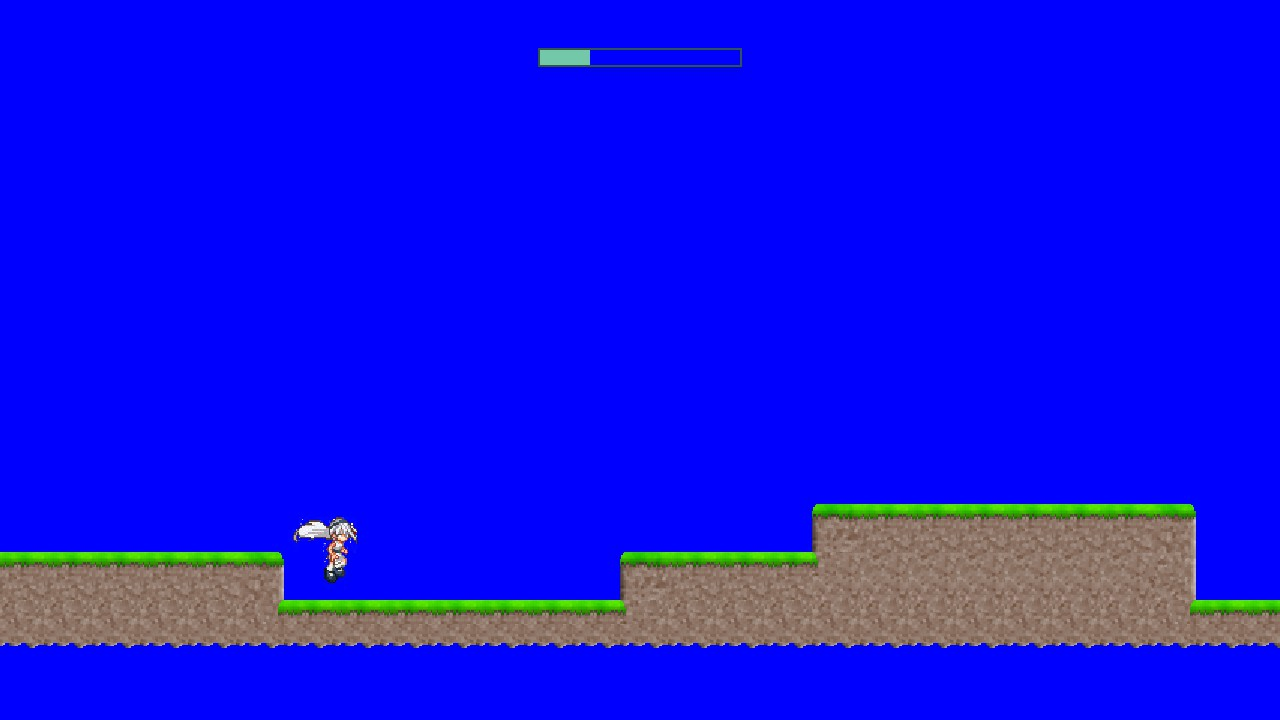
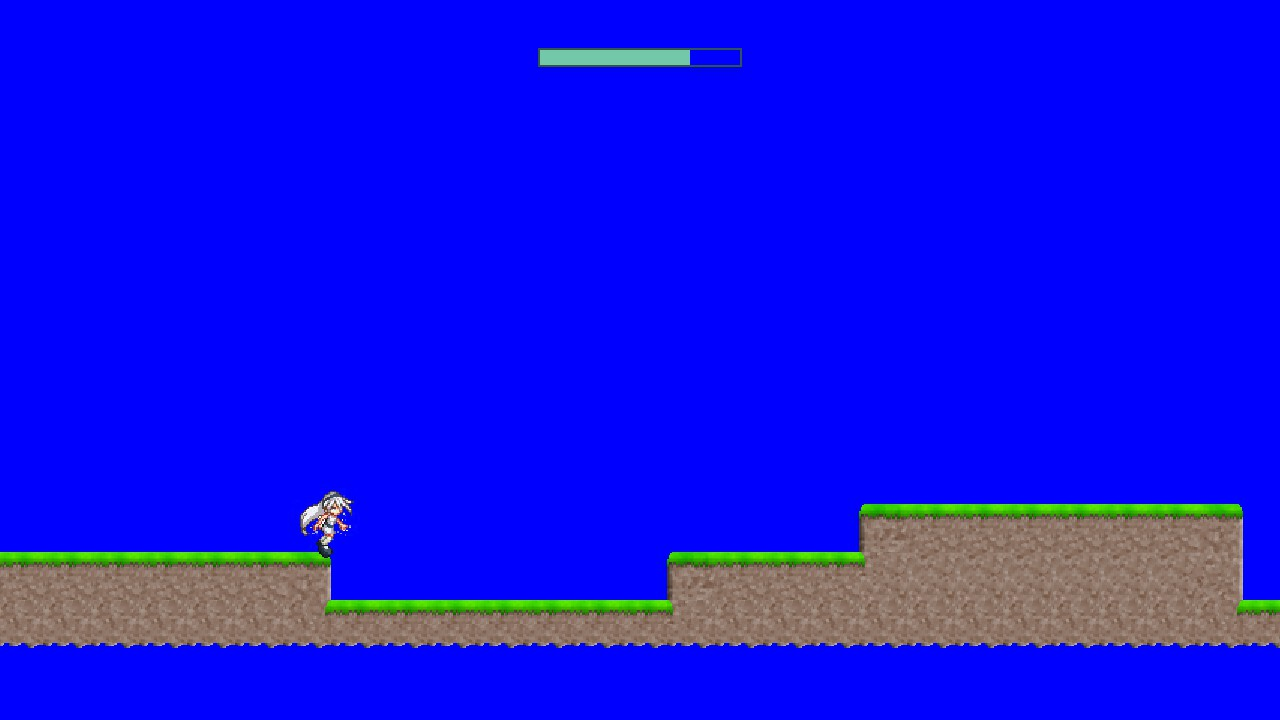
Overworld and Level share the same Elodie

diff --git a/src/Level/Level.cpp b/src/Level/Level.cpp
@@ -1,9 +1,9 @@
 #include "Level.h"
 
-Level::Level(std::string filename, LevelEnv env) {
+Level::Level(std::string filename, LevelEnv env, Elodie* elodie) {
     this->environement = env;
     this->manager = new TextureManager();
-    loadLevel(filename);
+    loadLevel(filename, elodie);
 }
 
 Level::~Level() {
@@ -14,7 +14,9 @@ Level::~Level() {
     }
 
     for(EntityMap::iterator it = entities.begin(); it != entities.end(); ++it) {
-        delete it->second;
+        if(it->first.compare("elodie")) {
+            delete it->second;
+        }
     }
 
     delete this->manager;
@@ -25,10 +27,10 @@ void Level::setEnvironement(LevelEnv env) {
 }
 
 // Load a level from the file system
-void Level::loadLevel(std::string filename) {
+void Level::loadLevel(std::string filename, Elodie* elodie) {
     std::string levelSource = FileHandler::getContent(filename);
 
-    Mapper::parse(levelSource, tiles, entities);
+    Mapper::parse(levelSource, tiles, entities, elodie);
     Mapper::beautify(tiles);
 
     applyEnv(tiles);

diff --git a/src/Map/Mapper.cpp b/src/Map/Mapper.cpp
@@ -6,7 +6,7 @@ Mapper::Mapper() {
 }
 
 // The parser takes the ASCII level and modify the the TileMap and the EntityVector
-void Mapper::parse(std::string asciiLevel, TileMap& tiles, EntityMap& entities) {
+void Mapper::parse(std::string asciiLevel, TileMap& tiles, EntityMap& entities, Elodie* elodie) {
     std::cout << "PARSING MAP" << std::endl;
     unsigned int y = 0;
     unsigned int x = 0;
@@ -15,7 +15,9 @@ void Mapper::parse(std::string asciiLevel, TileMap& tiles, EntityMap& entities) 
         // Entities
         switch(asciiLevel[i]) {
         case MAP_ELODIE:
-            entities.insert(std::make_pair("elodie", new Elodie(x*32, y*32)));
+            elodie->reset();
+            elodie->getSprite()->setPosition(x*32 - 21, y*32 - 32);
+            entities.insert(std::make_pair("elodie", elodie));
             break;
         default:
             break;

diff --git a/src/Game/Game.cpp b/src/Game/Game.cpp
@@ -54,6 +54,7 @@ void Game::displayLevel(int curLevelNbr) {
         view.hide(ViewLayer::IMMERSIONBAR);
         view.hide(ViewLayer::CONSOLE);
         view.show(ViewLayer::OVERWORLD);
+        overworld->getElodie()->getSprite()->setPosition(544, 611);
 
     } else if (event->keyIsPressed(sf::Keyboard::M)) {
         state = GameState::INMENU;
@@ -80,7 +81,7 @@ void Game::loadLevel(int levelNbr) {
     }
     state = GameState::INLEVEL;
     curLevelNbr = levelNbr;
-    curLevel = new Level("assets/levels/level2.txt", LevelEnv::FIELD);
+    curLevel = new Level("assets/levels/level2.txt", LevelEnv::FIELD, overworld->getElodie());
     view.addView(ViewLayer::LEVEL, curLevel);
 }
 

diff --git a/src/Entity/Elodie.cpp b/src/Entity/Elodie.cpp
@@ -179,3 +179,19 @@ void Elodie::pause() {
 void Elodie::play() {
     sprite->play();
 }
+
+void Elodie::reset() {
+    immersionLevel = 100;
+    timer = 0;
+    state = ElodieState::WALKING;
+    speed.x = 300;
+
+    setEntitySprite(sprite);
+
+    //levelSpeed and hitboxes are set here for the moment, but it's not the right place to set them
+    sf::Vector2f pnt1 = {82, 37}, pnt2 = {106, 82};
+    Hitbox hitbox(pnt1, pnt2);
+    removeCurrentHitBox();
+    setCurrentHitbox(0);
+    addHitbox(hitbox);
+}

diff --git a/src/Level/Level.h b/src/Level/Level.h
@@ -13,10 +13,10 @@
 
 class Level : public Displayable {
 public:
-    Level(std::string filename, LevelEnv env);
+    Level(std::string filename, LevelEnv env, Elodie* elodie);
     virtual ~Level();
 
-    void loadLevel(std::string filename);
+    void loadLevel(std::string filename, Elodie* elodie);
     void live(EventHandler* const& event, sf::Time animate);
 
     TileMap getTiles();

diff --git a/src/Map/Mapper.h b/src/Map/Mapper.h
@@ -29,7 +29,7 @@ private:
 
 public:
     Mapper();
-    static void parse(std::string str, TileMap& tiles, EntityMap& entities);
+    static void parse(std::string str, TileMap& tiles, EntityMap& entities, Elodie* elodie);
     static void beautify(TileMap& tiles);
     static void print(TileMap& tiles, EntityMap& entities);
 };

diff --git a/src/Entity/Entity.cpp b/src/Entity/Entity.cpp
@@ -18,6 +18,11 @@ void Entity::setCurrentHitbox(int current) {
     currentHitbox = current;
 }
 
+void Entity::removeCurrentHitBox() {
+    hitboxes.erase(hitboxes.begin()+currentHitbox);
+    currentHitbox = 0;
+}
+
 void Entity::addHitbox(Hitbox hitbox) {
     hitboxes.push_back(hitbox);
 }

diff --git a/src/Entity/Entity.h b/src/Entity/Entity.h
@@ -26,6 +26,7 @@ public:
     virtual ~Entity();
 
     void addHitbox(Hitbox hitbox);
+    void removeCurrentHitBox();
     void setCurrentHitbox(int current);
     Hitbox getCurrentHitbox();
 

diff --git a/src/Entity/Elodie.h b/src/Entity/Elodie.h
@@ -133,7 +133,7 @@ public:
     * \return An int, the value of the nightmare level.
     */
     int getNightmareLevel();
-
+    void reset();
     void pause();
     void play();
 
